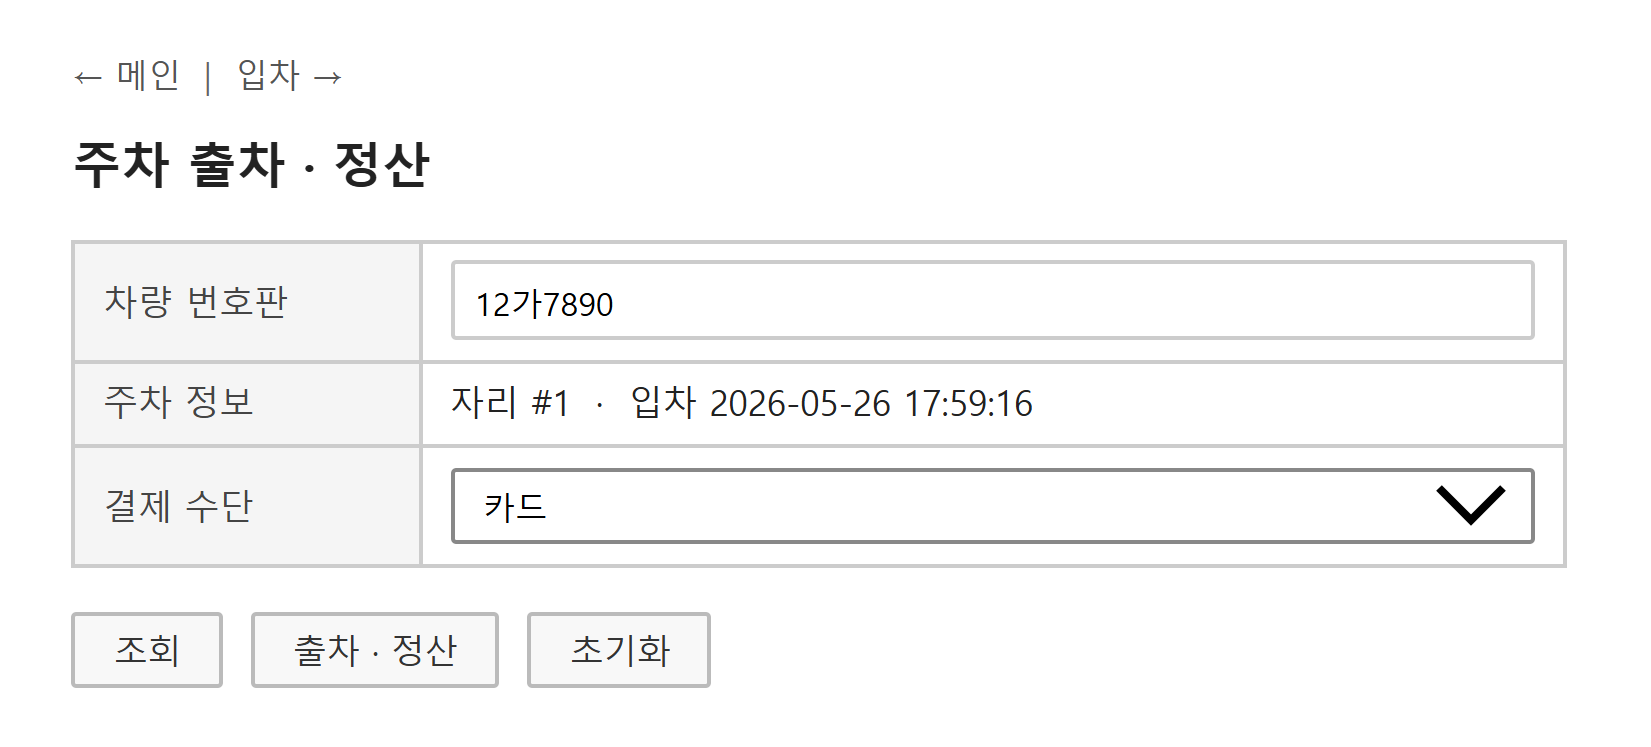
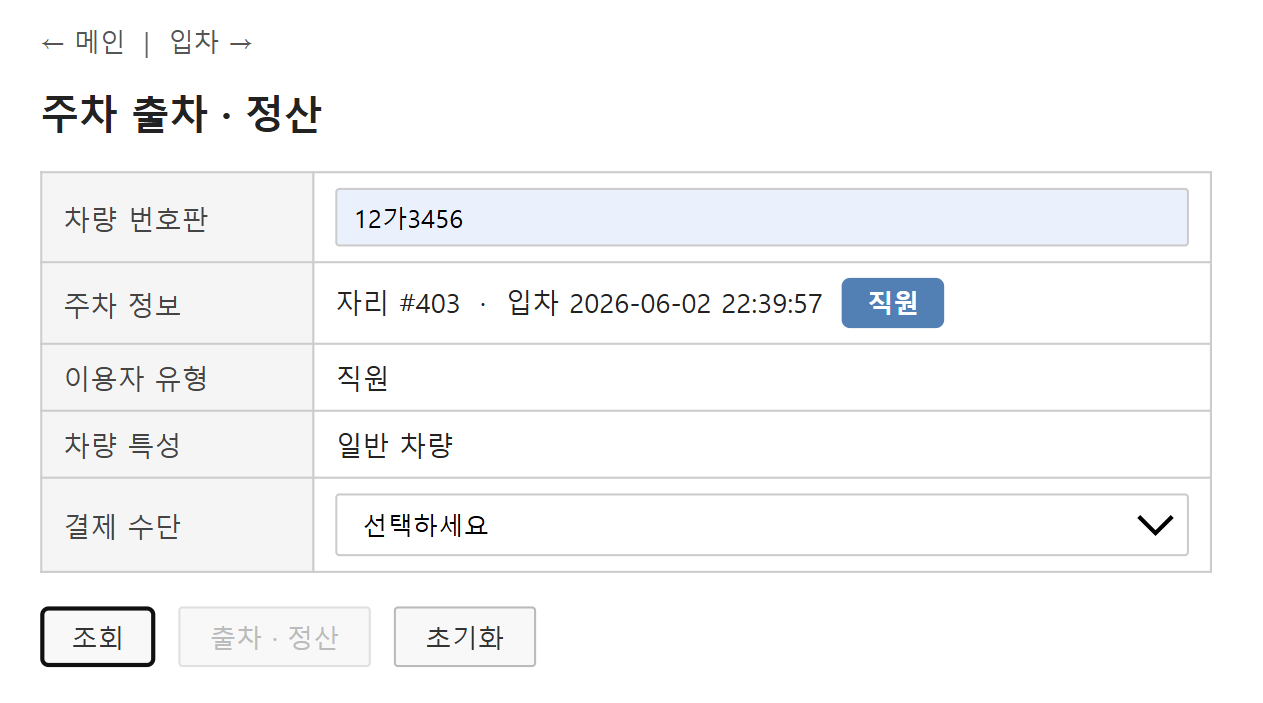
docs: 리드미 최종 수정

Changed region(s): [[0.0309, 0.0299, 0.9572, 0.9559]]

diff --git a/README.md b/README.md
@@ -52,14 +52,15 @@
 
 ![입차 화면](docs/screenshots/enter.png)
 
-### 출차 — 번호판 입력 → 주차 시간 + 요금 자동 계산
+### 출차 - 번호판 입력 → 주차 시간 + 요금 자동 계산
 
 ![출차 화면](docs/screenshots/exit.png)
 ![정산 화면](docs/screenshots/exit1.png)
 
-### 관리자 대시보드 — 매출 통계, 시간대별 혼잡도, 입출차 및 결제 이력
+### 관리자 대시보드 - 매출 통계, 시간대별 혼잡도, 입출차 및 결제 이력
 
-![관리자 대시보드](docs/screenshots/dashboard.png)
+![관리자 대시보드1](docs/screenshots/dashboard1.png)
+![관리자 대시보드2](docs/screenshots/dashboard2.png)
 
 ---
 
@@ -90,14 +91,14 @@
 입차와 출차+정산 로직을 트랜잭션으로 묶어 처리합니다.  
 중간에 오류가 나면 자동으로 롤백됩니다.
 
-**`sp_park_enter`** — 입차 처리
+**`sp_park_enter`** - 입차 처리
 
 1. 자리 점유 여부 확인 (`FOR UPDATE`로 행 잠금 — 동시 입차 시 같은 자리 중복 배정 방지)
 2. user_type 검증 (입주민은 아파트만, 직원은 백화점만)
 3. 장애인/전기차 전용 자리 차량 검증
 4. `ParkingRecord` 삽입
 
-**`sp_park_exit`** — 출차 + 정산
+**`sp_park_exit`** - 출차 + 정산
 
 1. `ParkingRecord.exit_time` 업데이트
 2. 주차 시간 계산 (30분 단위, 초 단위 올림, 최소 1단위)
@@ -147,8 +148,8 @@
 ---
 
 DB 계정은 두 개로 분리되어 있습니다.  
-`parking_user` — 입차/출차 등 일반 사용자 요청 (SELECT, EXECUTE만 가능)  
-`parking_admin` — 관리자가 통계 및 이력 조회 (전체 권한)
+`parking_user` - 입차/출차 등 일반 사용자 요청 (SELECT, EXECUTE만 가능)  
+`parking_admin` - 관리자가 통계 및 이력 조회 (전체 권한)
 
 ---
 
